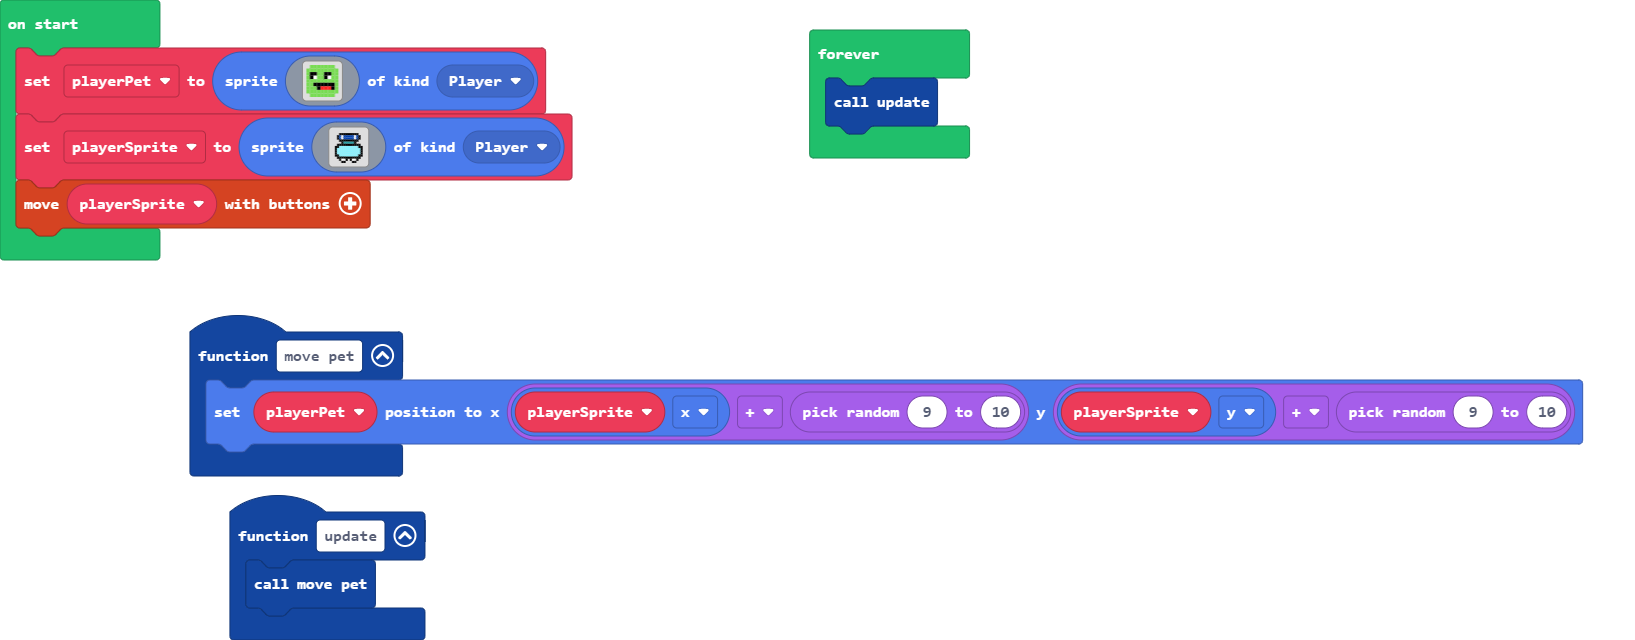
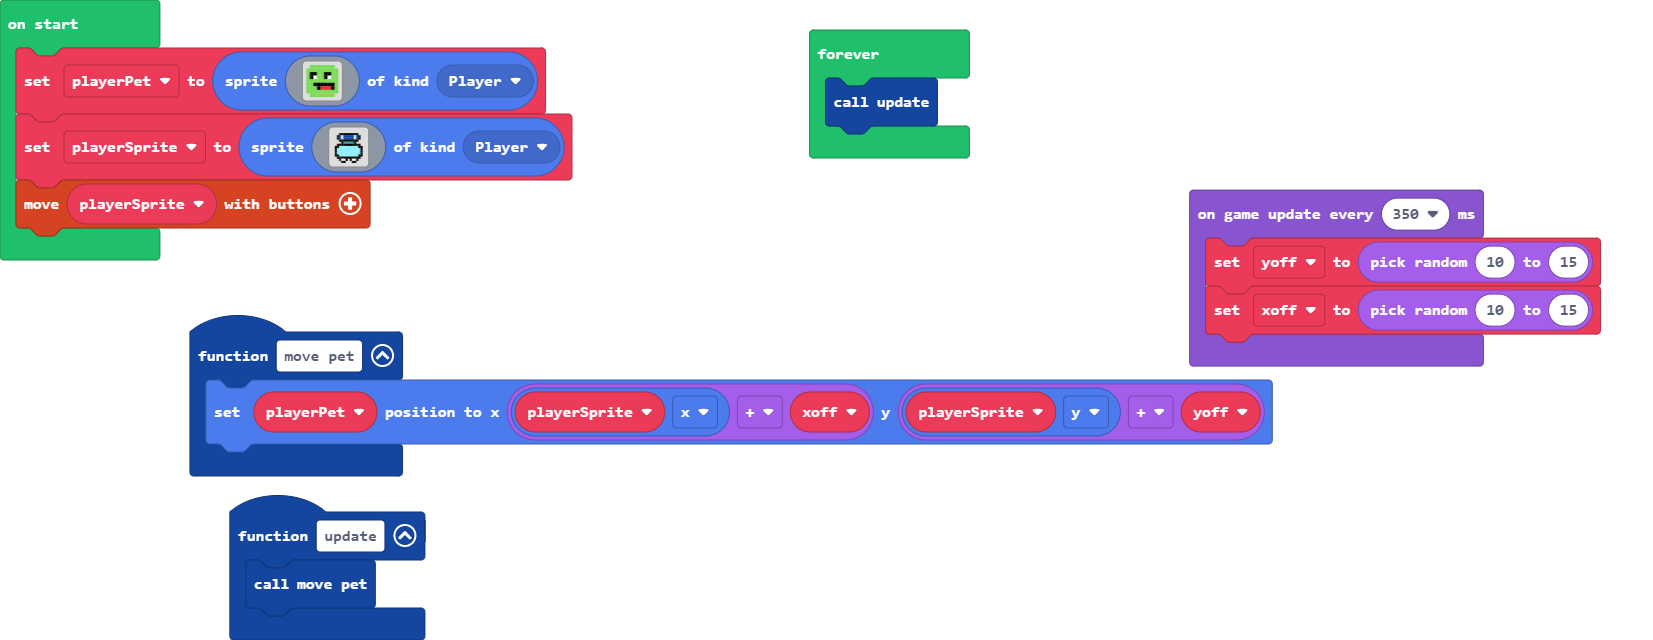
Update main.blocks, main.ts

diff --git a/main.ts b/main.ts
@@ -1,9 +1,11 @@
 function move_pet () {
-    playerPet.setPosition(playerSprite.x + randint(9, 10), playerSprite.y + randint(9, 10))
+    playerPet.setPosition(playerSprite.x + xoff, playerSprite.y + yoff)
 }
 function update () {
     move_pet()
 }
+let yoff = 0
+let xoff = 0
 let playerSprite: Sprite = null
 let playerPet: Sprite = null
 playerPet = sprites.create(img`
@@ -35,6 +37,10 @@ playerSprite = sprites.create(img`
     . . . . f f . . . f f . . . . 
     `, SpriteKind.Player)
 controller.moveSprite(playerSprite)
+game.onUpdateInterval(350, function () {
+    yoff = randint(10, 15)
+    xoff = randint(10, 15)
+})
 forever(function () {
     update()
 })
